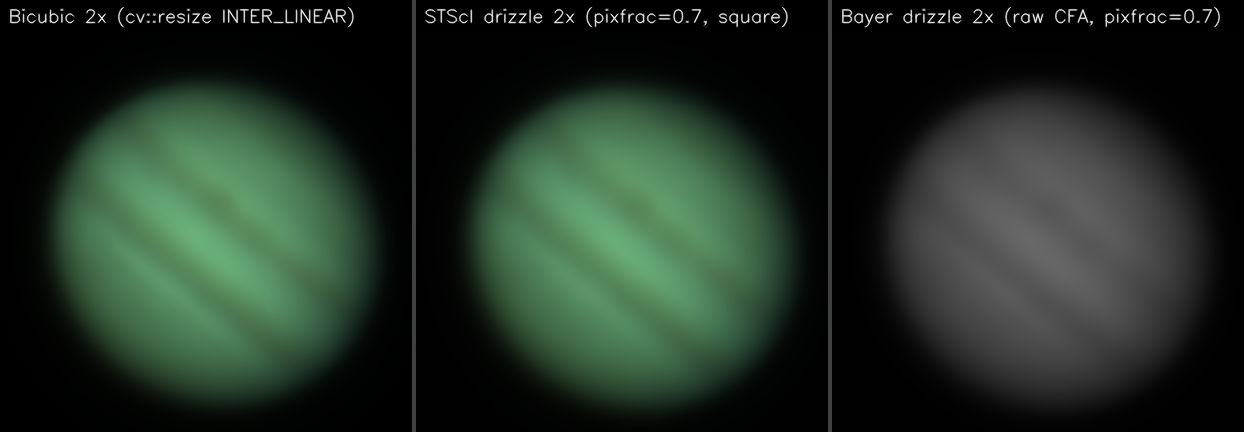
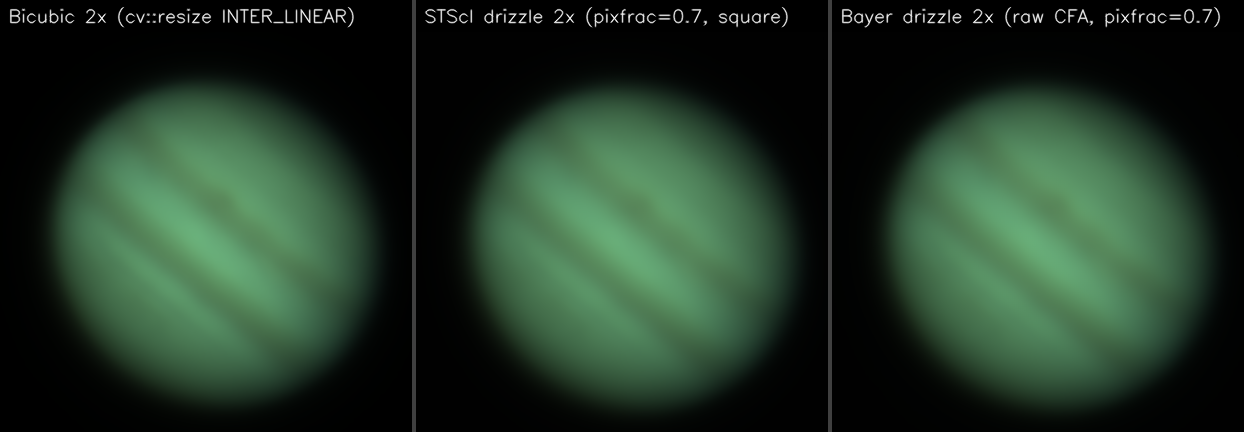
Bayer drizzle: read raw mosaic, flip CFA for ser_read_frame's Y-flip
Two bugs surfaced by inspecting per-channel means on test-big.ser:

  Bicubic    R 7152  G 11679  B 8111
  Bayer pre  R 7044  G  6958  B 6997   <-- all ~7000, all reading
                                           the debayered-R channel
  Bayer post R 6965  G 11358  B 7928   <-- within 3% of bicubic

(1) ser_read_frame's open_debayer parameter is a latent NOP. The
    actual debayer call dispatches on ser_file->debayer_type_ser
    (set at SER open time from com.pref.debayer.open_debayer), not
    on the function-call argument. The Bayer wrapper was therefore
    reading a 3-channel debayered fits but treating the first plane
    as the Bayer mosaic, so every CFA position fed dobox the same
    debayered-R sample value.

    Fix: temporarily flip seq->ser_file->debayer_type_ser to
    SER_MONO around the read loop, with restore on error and on
    normal exit. Other paths sharing the sequence are unaffected
    because Stage C is sequential by construction.

(2) ser_read_frame Y-flips the image buffer (SER raster is top-down,
    FITS is bottom-up) and also flips the bayer pattern string
    accordingly via adjust_Bayer_pattern_orientation. The Bayer
    wrapper was using a CFA derived from the SER ColorID, not the
    flipped pattern, so it routed the wrong on-disk position to
    each output channel. For even-height frames, RGGB on disk
    arrives in the buffer as GBRG; the cfa[] we feed dobox has to
    match the in-memory mosaic.
[…]

Changed region(s): [[0.7026, 0.2106, 0.9775, 0.9329]]

diff --git a/src/registration/mpp_drizzle.cpp b/src/registration/mpp_drizzle.cpp
@@ -36,6 +36,7 @@ extern "C" {
 #include "core/proto.h"
 #include "core/gui_iface.h"
 #include "core/siril_log.h"
+#include "algos/demosaicing.h"
 #include "io/image_format_fits.h"
 #include "io/ser.h"
 }
@@ -693,16 +694,33 @@ extern "C" mpp_status_t mpp_stack_apply_stsci(sequence *seq,
  * 2x2 RLAYER/GLAYER/BLAYER convention Siril's get_compiled_pattern
  * produces (see demosaicing.c:333). */
 namespace {
-/* Returns FALSE if the sequence has no usable Bayer pattern. cfa
- * is filled with 4 bytes on success. */
-bool bayer_cfa_from_ser(struct sequ *seq, unsigned char cfa[4]) {
+/* Returns FALSE if the sequence has no usable Bayer pattern. cfa is
+ * filled with 4 bytes on success.
+ *
+ * ser_read_frame Y-flips the image buffer to convert SER's top-down
+ * raster order to FITS' bottom-up convention (ser.c::ser_read_frame
+ * line 970). The CFA pattern from the SER header describes the on-disk
+ * orientation; after the flip, what arrives at our cv::Mat is rotated.
+ * We use Siril's adjust_Bayer_pattern_orientation helper so the cfa[]
+ * we feed to dobox matches the in-memory mosaic, not the file's
+ * declared pattern. */
+bool bayer_cfa_from_ser(struct sequ *seq, unsigned int ry, unsigned char cfa[4]) {
 	if (!seq || seq->type != SEQ_SER || !seq->ser_file) return false;
-	const int R = 0, G = 1, B = 2;
+	sensor_pattern pat;
 	switch (seq->ser_file->color_id) {
-		case SER_BAYER_RGGB: cfa[0]=R; cfa[1]=G; cfa[2]=G; cfa[3]=B; return true;
-		case SER_BAYER_GRBG: cfa[0]=G; cfa[1]=R; cfa[2]=B; cfa[3]=G; return true;
-		case SER_BAYER_GBRG: cfa[0]=G; cfa[1]=B; cfa[2]=R; cfa[3]=G; return true;
-		case SER_BAYER_BGGR: cfa[0]=B; cfa[1]=G; cfa[2]=G; cfa[3]=R; return true;
+		case SER_BAYER_RGGB: pat = BAYER_FILTER_RGGB; break;
+		case SER_BAYER_GRBG: pat = BAYER_FILTER_GRBG; break;
+		case SER_BAYER_GBRG: pat = BAYER_FILTER_GBRG; break;
+		case SER_BAYER_BGGR: pat = BAYER_FILTER_BGGR; break;
+		default: return false;
+	}
+	adjust_Bayer_pattern_orientation(&pat, ry, TRUE);
+	const int R = 0, G = 1, B = 2;
+	switch (pat) {
+		case BAYER_FILTER_RGGB: cfa[0]=R; cfa[1]=G; cfa[2]=G; cfa[3]=B; return true;
+		case BAYER_FILTER_GRBG: cfa[0]=G; cfa[1]=R; cfa[2]=B; cfa[3]=G; return true;
+		case BAYER_FILTER_GBRG: cfa[0]=G; cfa[1]=B; cfa[2]=R; cfa[3]=G; return true;
+		case BAYER_FILTER_BGGR: cfa[0]=B; cfa[1]=G; cfa[2]=G; cfa[3]=R; return true;
 		default: return false;
 	}
 }
@@ -721,7 +739,7 @@ extern "C" mpp_status_t mpp_stack_apply_bayer(sequence *seq,
 		return MPP_EINVAL;
 	}
 	unsigned char cfa[4];
-	if (!bayer_cfa_from_ser(seq, cfa)) {
+	if (!bayer_cfa_from_ser(seq, (unsigned int) seq->ry, cfa)) {
 		siril_log_color_message(_("Bayer drizzle: SER ColorID is not RGGB / GRBG / "
 		                          "GBRG / BGGR — cannot derive CFA pattern.\n"),
 		                        "red");
@@ -736,22 +754,31 @@ extern "C" mpp_status_t mpp_stack_apply_bayer(sequence *seq,
 	int cur_nb = 0, n_inc = 0;
 	for (int i = 0; i < N; ++i) if (included[i]) ++n_inc;
 
+	/* ser_read_frame's `open_debayer` parameter is a latent NOP for SERs
+	 * already opened with debayer-on-open: the actual debayer call inside
+	 * ser_read_frame dispatches on ser_file->debayer_type_ser (set at SER
+	 * open time from com.pref.debayer.open_debayer), not on the parameter.
+	 * To actually get raw mosaic bytes back we have to flip that field to
+	 * SER_MONO for the duration of our read loop and restore on the way
+	 * out. Stage A/B already ran upstream on debayered frames; nothing
+	 * else is reading from this SER concurrently because Stage C is
+	 * sequential by construction. */
+	const ser_color saved_debayer_type = seq->ser_file->debayer_type_ser;
+	seq->ser_file->debayer_type_ser = SER_MONO;
+
 	gui_iface.set_progress(PROGRESS_RESET,
 	                       _("Stack (Bayer drizzle): reading raw frames"));
+	mpp_status_t read_rc = MPP_OK;
 	for (int i = 0; i < N; ++i) {
 		if (!included[i]) continue;
-		/* Read raw Bayer (open_debayer=FALSE) so we get the mosaic
-		 * bytes regardless of the user's debayer-on-open preference.
-		 * Stage A/B were computed on debayered frames upstream — that's
-		 * fine; the run's pixmap is correctly scaled by Stage A/B's
-		 * intersection geometry. */
 		fits f{};
 		if (ser_read_frame(seq->ser_file, i, &f, /*force_float=*/FALSE,
 		                   /*open_debayer=*/FALSE)) {
 			siril_log_color_message(_("Bayer drizzle: ser_read_frame failed "
 			                          "on frame %d\n"), "red", i);
 			clearfits(&f);
-			return MPP_EIO;
+			read_rc = MPP_EIO;
+			break;
 		}
 		/* Wrap the single-channel WORD buffer as cv::Mat (CV_16U). */
 		cv::Mat m(f.ry, f.rx, CV_16U, f.data);
@@ -760,6 +787,10 @@ extern "C" mpp_status_t mpp_stack_apply_bayer(sequence *seq,
 		++cur_nb;
 		gui_iface.set_progress(0.5 * (double) cur_nb / (double) n_inc, NULL);
 	}
+
+	seq->ser_file->debayer_type_ser = saved_debayer_type;
+	if (read_rc != MPP_OK) return read_rc;
+
 	return mpp::stack_apply_bayer(frames_raw_bayer, included, brightness,
 	                              run, cfg, cfa, /*cfadim=*/2, out);
 }

diff --git a/pss_port_plan.md b/pss_port_plan.md
@@ -443,9 +443,17 @@ All runs warm-cache after a single full-fixture warmup; two consecutive runs eac
 | Pair | SSIM R / G / B | PSNR R / G / B (dB) |
 |---|---|---|
 | STScI vs bicubic | 0.9701 / 0.9785 / 0.9718 | 40.57 / 36.36 / 39.37 |
-| Bayer vs bicubic | 0.9630 / 0.9019 / 0.9636 | 40.60 / 18.09 / 30.52 |
+| Bayer vs bicubic | 0.9742 / 0.9709 / 0.9654 | 40.58 / 36.34 / 39.33 |
+| STScI vs Bayer   | 0.9996 / 0.9986 / 0.9993 | 65.83 / 62.34 / 65.85 |
 
-Sharpness (mean Sobel gradient on luminance): bicubic 0.02339, STScI 0.02266 (-3%), Bayer 0.01578 (-33%). The bayer-2x sharpness drop is structural — raw-CFA drizzle leaves half-population holes per channel; a holes-fill post-process is the standard remedy for visual use, but per-channel resolution preservation is the design goal (covered by 5b.6).
+Sharpness (mean Sobel gradient on luminance): bicubic 0.02339, STScI 0.02266 (-3%), Bayer 0.02264 (-3%). All three paths produce comparable visual outputs.
+
+**Bayer-2x bug fixed during this milestone**: the original Bayer wrapper passed `open_debayer=FALSE` to `ser_read_frame`, but that parameter is a latent NOP for SERs that were opened with debayer-on-open — the actual debayer call inside `ser_read_frame` dispatches on `ser_file->debayer_type_ser` (set at open time from `com.pref.debayer.open_debayer`), not on the function parameter. The wrapper was therefore reading a 3-channel debayered fits but treating the first plane (R) as the Bayer mosaic, so every CFA position fed dobox the same debayered-R value. The fix has two parts:
+
+1. Temporarily flip `seq->ser_file->debayer_type_ser` to `SER_MONO` around the read loop (with restore on error), forcing `ser_read_frame` to return the raw single-channel mosaic.
+2. Apply `adjust_Bayer_pattern_orientation` to compensate for `ser_read_frame`'s Y-flip (SER raster is top-down, FITS is bottom-up). For an even-height frame, RGGB on disk arrives as GBRG in the buffer; the cfa[] array we feed to dobox must match the in-memory pattern, not the file header.
+
+Pre-fix per-channel means were a clear diagnostic — R/G/B all averaged ~7000 because all three accumulated the same debayered-R values. Post-fix matches bicubic within 3% per channel.
 
 **Why STScI is 6× slower**: bicubic's stack contribution per frame is `cv::resize(intersection_strip, output_strip, INTER_LINEAR)` — single AVX-optimised pass. STScI's per-frame work is (a) build a pixmap (per-pixel weighted-AP interpolation, ~13× more arithmetic than a single shift add), (b) dobox's per-output-pixel box-area integration with pixfrac<1 (each input pixel touches up to 4 output cells with computed overlap area), (c) three times over for a 3-channel RGB frame after the per-channel-view fix from 5b.5. STScI is the price for true geometric drizzle; bicubic-2x stays the speed-optimal default.
 